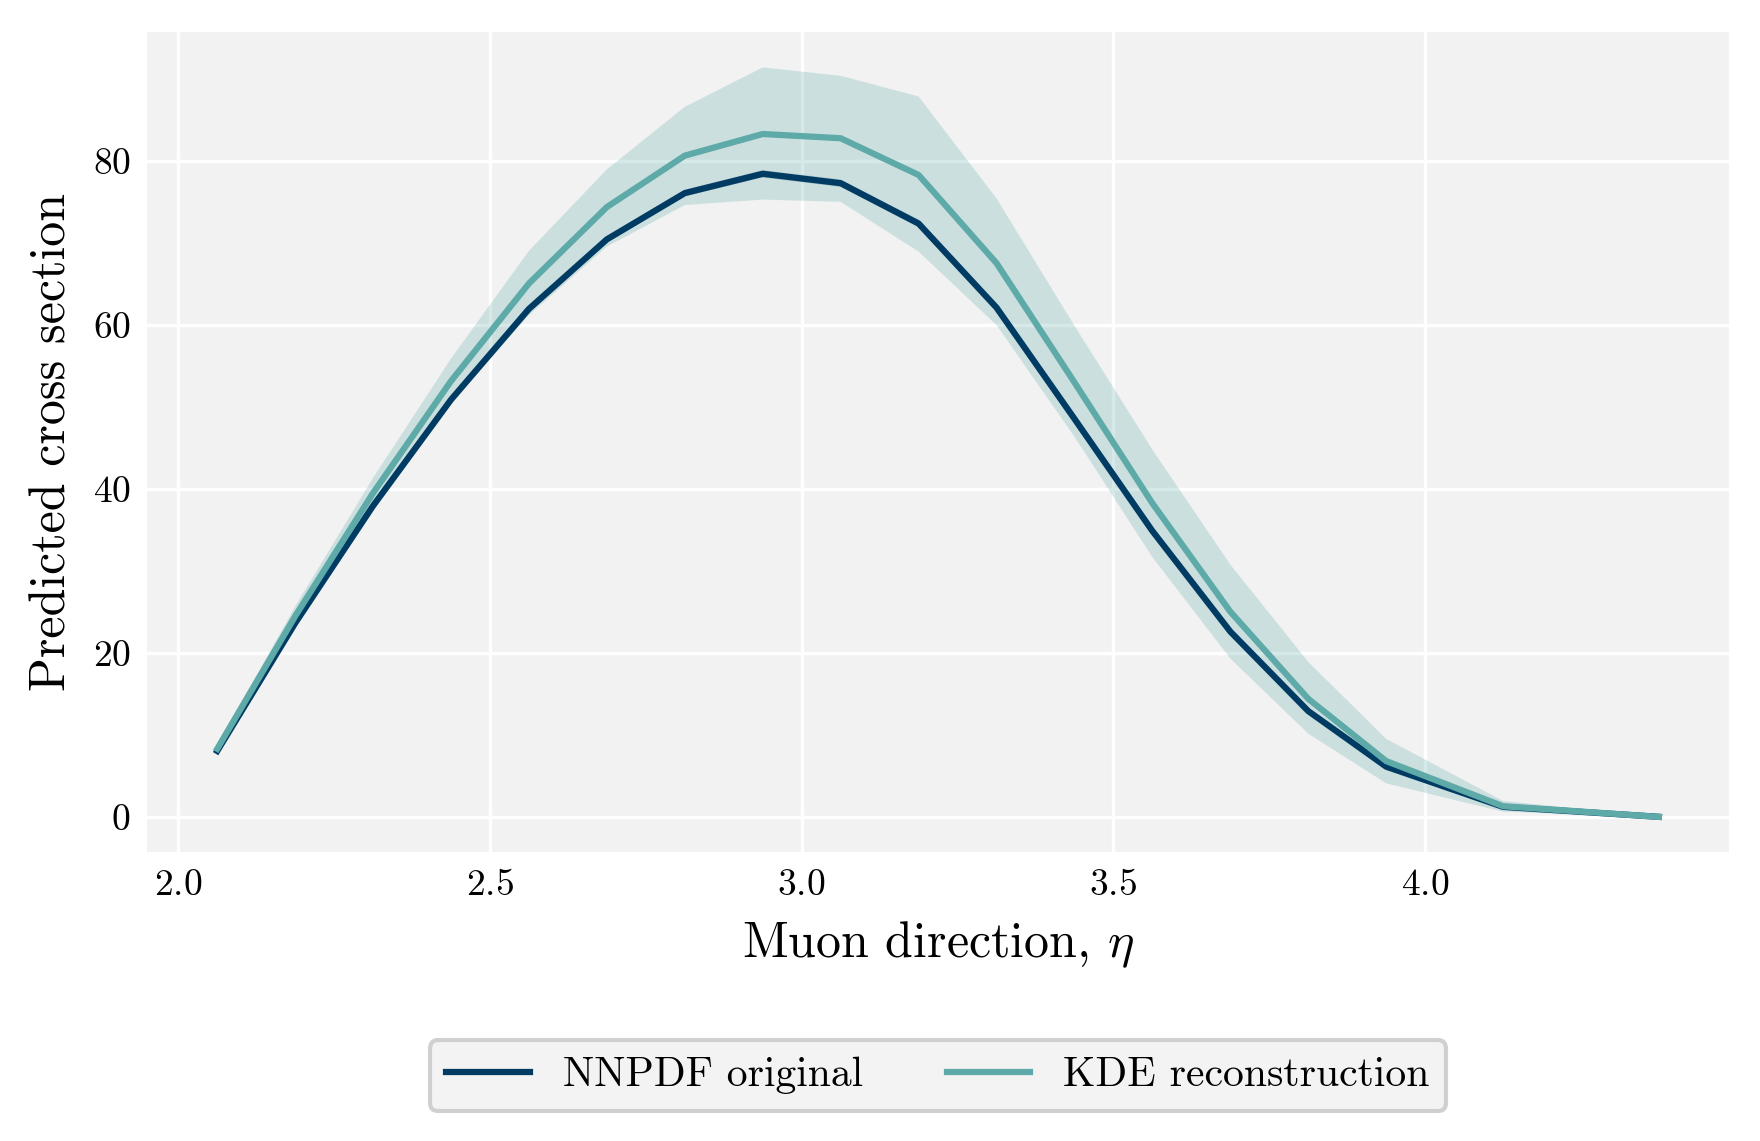
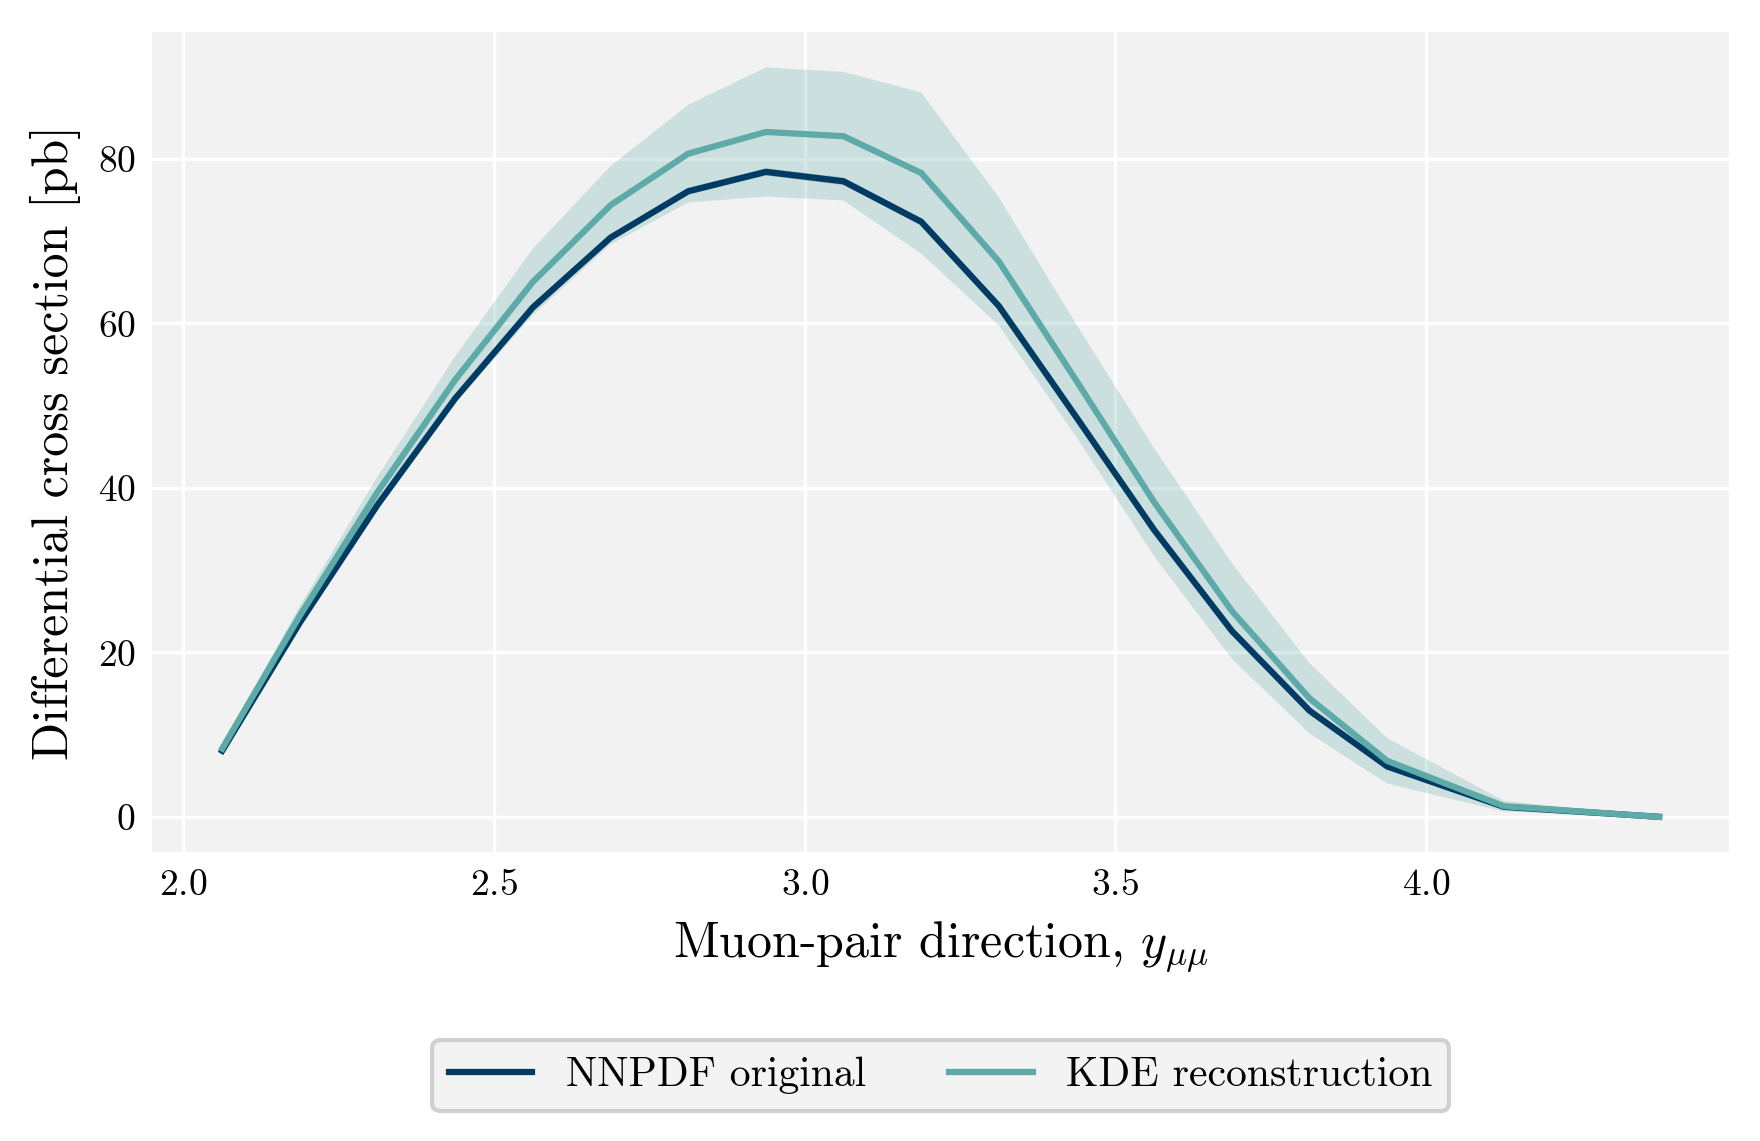
plot updates

diff --git a/02_nnpdfDataCode/07_observableAnalysis/lhapdf_calc_observables.py b/02_nnpdfDataCode/07_observableAnalysis/lhapdf_calc_observables.py
@@ -17,7 +17,7 @@ In this file we do the following
 3. Construct the proton convolution and light-flavour channel mask.
 4. Calculate the observable for one PDF member.
 5. Calculate the observable for all requested members of a PDF ensemble.
-6. Calculate the ensemble mean, standard deviation and percentile interval.
+6. Calculate the ensemble mean and sample standard deviation.
 7. Return the bin information needed by the plotting notebook.
 """
 
@@ -37,20 +37,17 @@ from pineappl.grid import Grid
 
 SCRIPT_DIR = Path(__file__).resolve().parent
 
-# Keeping the paths relative to this file means the notebook can be opened
-# from a different working directory without losing the data or style files.
+# Build paths from this file so it does not matter where the notebook is run
 STYLE_PATH = SCRIPT_DIR.parent / "pythonStyle.mplstyle"
 GRID_PATH = SCRIPT_DIR / "LHCB_DY_8TEV.pineappl.lz4"
 RECONSTRUCTED_SET_DIR = SCRIPT_DIR.parent / "06_convertToLhapdfFormat" / "output"
 
-# These are the short local names used in this project. NNPDF_original is a
-# renamed local copy of the official NNPDF40_nnlo_as_01180_1000 set.
+# Short local names for the two PDF sets used here
+# NNPDF_original is our local name for NNPDF40_nnlo_as_01180_1000
 ORIGINAL_SET_NAME = "NNPDF_original"
 RECONSTRUCTED_SET_NAME = "KDE_reconstruction"
 
-# These channels contain only d, u, s, c, their antiquarks and the gluon.
-# The other channels need bottom quarks or photons, which KDE_reconstruction
-# does not contain, so they are left out of both sides of the comparison.
+# Keep only channels that both sets have, leaving out bottom and photons
 SUPPORTED_CHANNELS = (0, 1, 3, 5, 6, 8)
 
 
@@ -74,8 +71,7 @@ class ObservablePlotStyle:
     def add_legend(self, axes):
         """Place a two-column legend centrally below an axes."""
 
-        # The legend sits outside the grey plotting area so that it cannot
-        # cover either prediction or its uncertainty band.
+        # Put the legend underneath so it does not cover the data
         axes.legend(
             loc="upper center",
             bbox_to_anchor=(0.5, -0.20),
@@ -85,8 +81,7 @@ class ObservablePlotStyle:
     def save(self, figure, filename):
         """Save a notebook figure in the observable-analysis folder."""
 
-        # bbox_inches="tight" is important here because the legend is below
-        # the axes and would otherwise be cut off in the saved image.
+        # "tight" keeps the legend from being cut off
         output_path = SCRIPT_DIR / filename
         figure.savefig(output_path, bbox_inches="tight")
         return output_path
@@ -109,8 +104,7 @@ class PineAPPLObservable:
         self.reconstructed_set_dir = Path(reconstructed_set_dir)
         self.supported_channels = tuple(supported_channels)
 
-        # These are filled by load(). Starting with None makes it clear if a
-        # calculation is attempted before the PineAPPL grid has been loaded.
+        # load() fills these in once the grid and PDF information are ready
         self.grid = None
         self.proton = None
         self.channel_mask = None
@@ -130,24 +124,18 @@ class PineAPPLObservable:
                 f"{self.reconstructed_set_dir}"
             )
 
-        # LHAPDF normally searches its system installation. Our two local PDF
-        # folders live in output/, so that directory is added to the front of
-        # the search path before either set is requested.
+        # Look in our local output folder first
         lhapdf.setVerbosity(0)
         lhapdf.pathsPrepend(str(self.reconstructed_set_dir))
 
         self.grid = Grid.read(str(self.grid_path))
 
-        # The grid describes two ordinary incoming protons. "polarized=False"
-        # means that we are not keeping track of proton spin, and
-        # "time_like=False" identifies an incoming rather than outgoing PDF.
+        # This is an ordinary unpolarized PDF for an incoming proton
         proton_type = ConvType(polarized=False, time_like=False)
         self.proton = Conv(convolution_types=proton_type, pid=2212)
         self.channel_mask = self.make_channel_mask()
 
-        # The original PDF covers a wider x range than the reconstruction. A
-        # fair comparison therefore uses the smaller reconstructed domain for
-        # both sets, rather than giving the original set extra phase space.
+        # Use the smaller reconstructed x range for both sets
         reconstructed_central = lhapdf.mkPDF(RECONSTRUCTED_SET_NAME, 0)
         self.analysis_x_min = reconstructed_central.xMin
         self.analysis_x_max = reconstructed_central.xMax
@@ -171,9 +159,7 @@ class PineAPPLObservable:
                 f"Channel indices are outside the grid: {invalid_channels}"
             )
 
-        # PineAPPL expects one True/False value for every channel in the grid.
-        # We begin with everything switched off and enable only the six
-        # light-flavour/gluon channels that both PDF sets can supply.
+        # Start with every channel off, then switch on the six we can use
         channel_mask = np.zeros(number_of_channels, dtype=bool)
         channel_mask[list(self.supported_channels)] = True
         return channel_mask
@@ -202,18 +188,14 @@ class PineAPPLObservable:
     def make_pdf_function(self, pdf):
         """Return an xfxQ2 callback restricted to the common PDF domain."""
 
-        # Each LHAPDF member advertises the range over which it can safely be
-        # evaluated. PineAPPL will call the small function below many times,
-        # passing it a parton ID, x and Q squared.
+        # Read the safe x and Q squared range for this PDF member
         x_min = pdf.xMin
         x_max = pdf.xMax
         q2_min = pdf.q2Min
         q2_max = pdf.q2Max
 
         def clip_boundary(value, lower, upper, name):
-            # A grid boundary can differ by a final floating-point digit after
-            # being written and read. That tiny difference is harmless, but a
-            # genuinely out-of-range request should never be silently clipped.
+            # Allow tiny rounding differences, but reject a real overshoot
             if value < lower:
                 if np.isclose(value, lower, rtol=1e-8, atol=0.0):
                     return lower
@@ -225,10 +207,8 @@ class PineAPPLObservable:
             return value
 
         def xfx_q2(pid, x, q2):
-            # PineAPPL and LHAPDF can represent the same boundary with slightly
-            # different final digits. Clip only floating-point-level boundary
-            # differences. Genuine out-of-domain x contributions are omitted
-            # from both ensembles, rather than extrapolated from either PDF.
+            # Tiny edge differences are just rounding, anything genuinely
+            # outside our shared x range is set to zero for both sets
             if x < self.analysis_x_min:
                 if np.isclose(x, self.analysis_x_min, rtol=1e-8, atol=0.0):
                     x = self.analysis_x_min
@@ -249,8 +229,7 @@ class PineAPPLObservable:
             safe_x = clip_boundary(x, x_min, x_max, "x")
             safe_q2 = clip_boundary(q2, q2_min, q2_max, "Q2")
 
-            # LHAPDF returns x times the PDF, which is exactly the convention
-            # expected by PineAPPL's convolution callback.
+            # PineAPPL expects the same x times PDF value that LHAPDF returns
             return pdf.xfxQ2(pid, safe_x, safe_q2)
 
         return xfx_q2
@@ -260,9 +239,7 @@ class PineAPPLObservable:
 
         pdf = self.load_pdf_member(set_name, member_index)
 
-        # PineAPPL combines its stored perturbative weights with this member's
-        # PDFs and alpha_s. The result contains one cross-section value for
-        # each muon-direction bin in the grid.
+        # Fold this PDF member through the grid to get one value per bin
         prediction = self.grid.convolve(
             pdg_convs=[self.proton],
             xfxs=[self.make_pdf_function(pdf)],
@@ -293,19 +270,17 @@ class PineAPPLObservable:
         for position, member_index in enumerate(member_indices, start=1):
             predictions.append(self.calculate_member(set_name, member_index))
 
-            # A full run evaluates 1,000 members and can take a while. This
-            # progress message reassures us that the calculation is advancing.
+            # Print an update every 100 replicas because the full run takes a while
             if position % 100 == 0 or position == len(member_indices):
                 print(
                     f"Calculated {position}/{len(member_indices)} members "
                     f"from {set_name}"
                 )
-        # Rows correspond to replicas and columns correspond to observable
-        # bins. This is the shape used by ObservableStatistics below.
+        # One row per replica and one column per observable bin
         return np.vstack(predictions)
 
     def bin_limits(self):
-        """Return the lower and upper pseudorapidity limit of every bin."""
+        """Return the lower and upper dilepton-rapidity limit of every bin."""
 
         if self.grid is None:
             raise RuntimeError("Call load() before requesting bin information")
@@ -316,9 +291,9 @@ class PineAPPLObservable:
         )
 
     def bin_centres(self):
-        """Return the pseudorapidity value at the centre of every bin."""
+        """Return the dilepton rapidity at the centre of every bin."""
 
-        # For a bin [low, high], the plotted x position is simply their average.
+        # Plot each bin halfway between its lower and upper edge
         return self.bin_limits().mean(axis=1)
 
 
@@ -356,28 +331,17 @@ class ObservableStatistics:
     def standard_deviation(self):
         """Return the sample standard deviation in every observable bin."""
 
-        # ddof=1 uses the usual sample standard deviation because the replicas
-        # are a finite sample of the underlying PDF probability distribution.
+        # ddof=1 gives the sample standard deviation across the replicas
         return self.replica_predictions.std(axis=0, ddof=1)
-
-    def percentile_interval(self, lower=16.0, upper=84.0):
-        """Return a percentile-based PDF uncertainty interval."""
-
-        if not 0.0 <= lower < upper <= 100.0:
-            raise ValueError("Percentiles must satisfy 0 <= lower < upper <= 100")
-        # The central 16th-to-84th percentile interval contains 68% of the
-        # replica predictions and does not assume that they are symmetric.
-        return np.percentile(
-            self.replica_predictions, [lower, upper], axis=0
-        )
 
     def summary(self):
         """Return all uncertainty statistics needed by the notebook."""
 
-        lower, upper = self.percentile_interval()
+        mean = self.mean()
+        standard_deviation = self.standard_deviation()
         return {
-            "mean": self.mean(),
-            "standard_deviation": self.standard_deviation(),
-            "lower_68": lower,
-            "upper_68": upper,
+            "mean": mean,
+            "standard_deviation": standard_deviation,
+            "lower_standard_deviation": mean - standard_deviation,
+            "upper_standard_deviation": mean + standard_deviation,
         }

diff --git a/02_nnpdfDataCode/07_observableAnalysis/README.md b/02_nnpdfDataCode/07_observableAnalysis/README.md
@@ -1,22 +1,131 @@
 # 07_observableAnalysis
 
-This folder contains work related to physical-observable predictions and their
-comparison across PDF ensembles. It is separate from Q-grid reconstruction and
-LHAPDF export.
+This folder contains a proof-of-concept calculation of a physical observable
+using the original and KDE-reconstructed PDF ensembles. It tests the complete
+chain from the KDE reconstruction, through LHAPDF, to a PineAPPL prediction.
 
-## Contents
+The two local LHAPDF sets are:
 
-- `analyse_predictions_nnpdf40.ipynb` explores precomputed observable
-  predictions from the `NNPDF_original` replicas. It checks reconstruction of
-  the central theory prediction from replica predictions and distinguishes
-  observables that depend linearly or quadratically on PDFs.
+- `NNPDF_original`: the local concise name for the official
+  `NNPDF40_nnlo_as_01180_1000` set;
+- `KDE_reconstruction`: the 1,000 KDE-generated replicas plus their central
+  member.
 
-## Required external input
+## Files
 
-The notebook expects `predictions_with_NNPDF40_by_replica.pkl`. That file is not
-currently present in this folder.
+- `lhapdf_calc_observables.py` contains the classes that load the PineAPPL
+  grid, select the supported partonic channels, evaluate individual LHAPDF
+  members, calculate complete replica ensembles, calculate summary statistics
+  and apply the shared plotting style.
+- `analyse_observables.ipynb` runs the calculation, compares the two PDF
+  ensembles and plots their propagated PDF uncertainties.
+- `LHCB_DY_8TEV.pineappl.lz4` is the external PineAPPL interpolation grid. It
+  is not committed to Git.
+- `prediction_uncertainties.png` is created when the final plotting cell is
+  run.
+- `analyse_predictions_nnpdf40.ipynb` is older exploratory work based on
+  precomputed predictions and is separate from the current PineAPPL example.
 
-## Future role
+## Observable
 
-This stage contains comparisons between observables calculated with
-`NNPDF_original` and `KDE_reconstruction`, including work using PineAPPL.
+The PineAPPL grid describes forward Drell--Yan production at LHCb:
+
+```text
+proton + proton -> Z/gamma* -> lepton + antilepton
+```
+
+Its embedded metadata identifies the observable as `d sigma / d y_ll`, where
+`y_ll` is the rapidity of the dilepton pair. This can be understood as the
+direction of the reconstructed Z/gamma* system. The grid has 18 bins from 2.0
+to 4.5.
+
+The PineAPPL convolution divides each bin by its stored bin width. The plotted
+quantity is therefore a differential cross section in pb, not a bin-integrated
+cross section:
+
+```text
+d sigma / d y_ll [pb]
+```
+
+## Common-domain restrictions
+
+`KDE_reconstruction` contains only:
+
+```text
+d, u, s, c, dbar, ubar, sbar, cbar, g
+```
+
+The PineAPPL grid also contains bottom and photon channels. Those channels are
+excluded from both PDF ensembles, leaving the common light-flavour/gluon
+channels `0, 1, 3, 5, 6, 8`.
+
+The reconstructed x-grid ends at `x_max = 0.664813948`. The PineAPPL grid can
+request values up to x = 1. Contributions above the reconstructed limit are
+therefore set to zero for both ensembles. Tiny floating-point differences at
+an actual grid boundary are clipped to the boundary, but genuine out-of-range
+values are not extrapolated.
+
+These restrictions make the result a common-domain proof of concept. It is not
+the complete published LHCb cross section.
+
+## Replica calculation and PDF uncertainty
+
+The observable is evaluated using members 1 to 1,000 of each LHAPDF set.
+Member 0 is evaluated separately as the central member, while the main
+uncertainty plot uses the statistics of the 1,000 replicas.
+
+For every observable bin, the code calculates:
+
+- the replica mean;
+- the sample standard deviation, using `ddof=1`.
+
+The shaded band is the replica mean plus or minus one sample standard
+deviation. It represents uncertainty propagated from the PDF replicas only. It
+does not include experimental, scale, numerical or other theory uncertainties.
+
+## Setup and running
+
+Activate the environment from the repository root:
+
+```bash
+source .venv/bin/activate
+```
+
+Install the recorded Python packages if needed:
+
+```bash
+python -m pip install -r 02_nnpdfDataCode/06_convertToLhapdfFormat/requirements.txt
+```
+
+The LHAPDF Python bindings must also be available in this environment. Before
+running the notebook, generate and validate `KDE_reconstruction` in
+`06_convertToLhapdfFormat`. Its `output` directory must contain both
+`NNPDF_original` and `KDE_reconstruction`.
+
+Download the PineAPPL grid into this folder with:
+
+```bash
+curl -L \
+  https://data.nnpdf.science/pineappl/test-data/LHCB_DY_8TEV.pineappl.lz4 \
+  -o 02_nnpdfDataCode/07_observableAnalysis/LHCB_DY_8TEV.pineappl.lz4
+```
+
+Then open `analyse_observables.ipynb`, select the repository `.venv` kernel and
+run the cells in order. A 10-replica calculation is performed first as a small
+check before the two full 1,000-replica calculations.
+
+## Current result and limitation
+
+The two ensembles produce the same broad rapidity dependence. However, the
+KDE-reconstructed ensemble gives a higher mean in part of the distribution and
+a much larger observable-level PDF uncertainty.
+
+The reconstruction stores a mean and covariance matrix independently at each
+Q value. A PineAPPL observable combines several flavours, x-values and Q-values
+and can depend on correlations between all of them. Using the same latent
+vector at every Q defines an approximate cross-Q relationship, but it does not
+prove that the original NNPDF cross-Q correlations have been preserved.
+
+The current result therefore demonstrates that the technical pipeline works,
+while revealing an important limitation in the observable-level uncertainty
+that requires further study.
